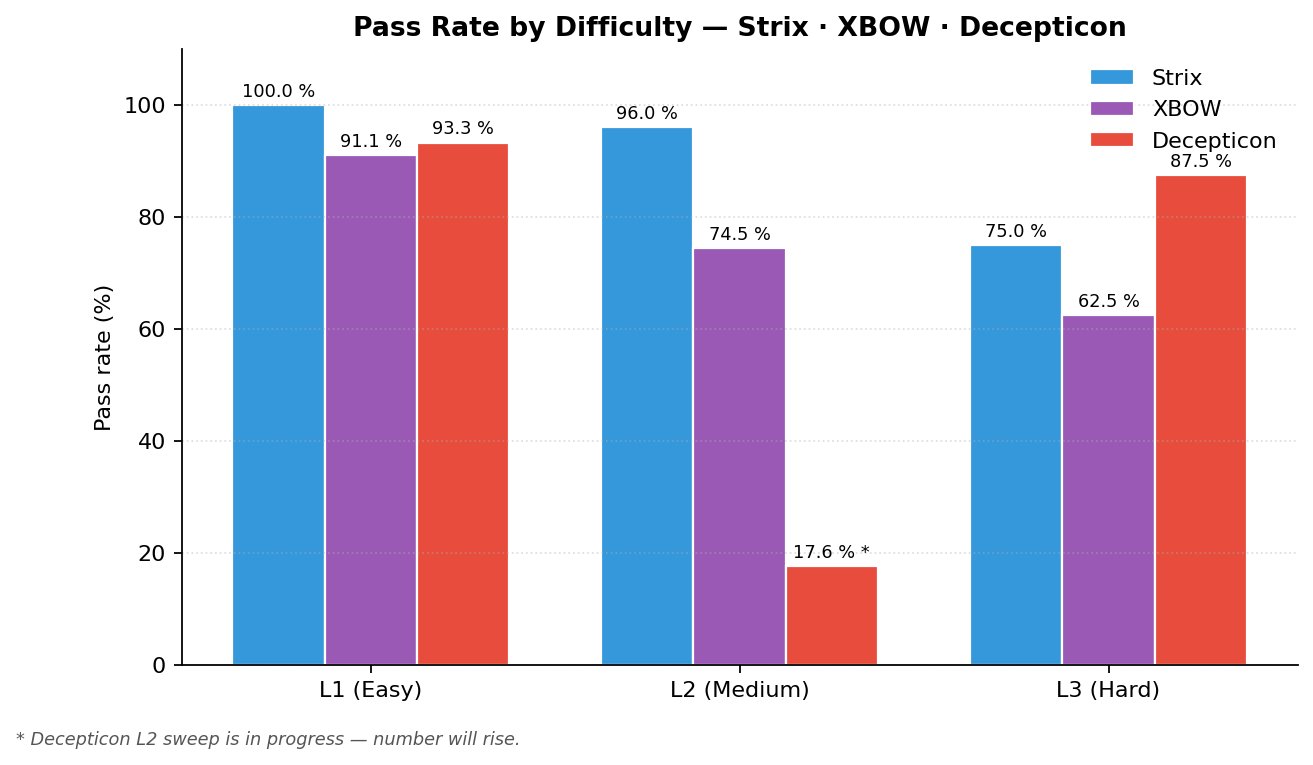
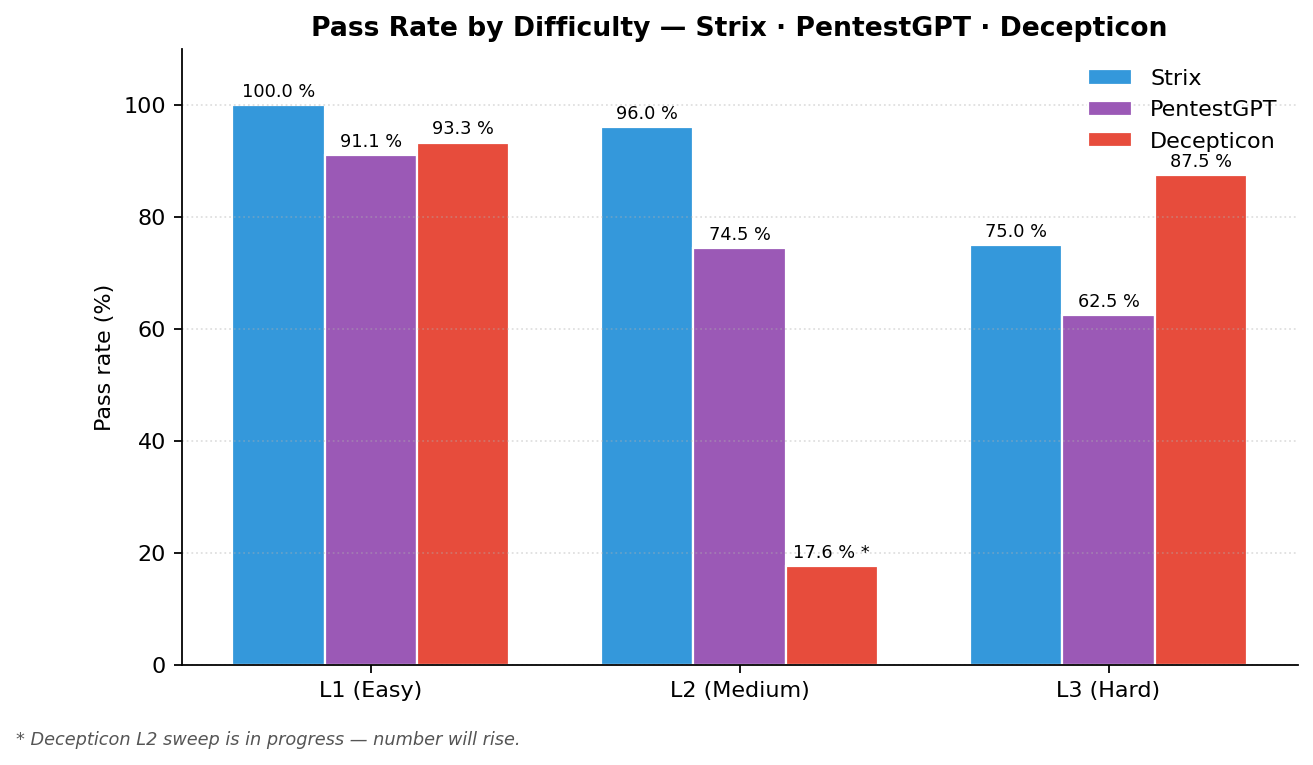
Fix mislabeled XBOW vs PentestGPT data; verify and footnote sources
Source verification surfaced two corrections to the leaderboard:

1. The per-difficulty table previously labeled "XBOW" (42/46, 43/50,
   5/8 = 90/104 = 86.5 %, with $0.65/$1.33/$3.03 cost stratified by
   level) is in fact PentestGPT's USENIX '24 result. Confirmed against
   PentestGPT's own write-up: 86.5 % overall, L1 91.1 % / L2 74.5 % /
   L3 62.5 %, $0.42 median cost. Re-attributed the row.

2. XBOW (commercial) does not publish a per-difficulty breakdown for
   its own agent. Only the headline ≈85 % vs the principal pentester's
   85 % in 40 hours is public. Lowered XBOW's headline from 86.5 % to
   85 %.

Other annotations:
- Strix L1/L2/L3 split is project-reported; we could not independently
  re-confirm the per-level split from an indexed primary source so
  added a footnote noting that. Total of 100/104 = 96.15 %, same as
  Shannon (white-box).
- Cyber-AutoAgent: project is now archived; v0.1.3 = 84.62 % is the
  final number, v0.1.1 = 81 %, v0.1.0 = 45.92 % (45/98). All three
  surfaced in the doc.
- PentestAgent / AutoPT / VulnBot: 50 / 46 / 6 % come from the
  Red-MIRROR ablation re-test, not from the systems' own papers
  (VulnBot's own paper uses AutoPenBench, not XBOW). Marked with a
  footnote.

Charts (assets/benchmark/leaderboard.png, difficulty.png) regenerated.

Changed region(s): [[0.2186, 0.0, 0.9056, 0.0601], [0.8743, 0.0902, 0.968, 0.2105]]

diff --git a/scripts/render_benchmark_charts.py b/scripts/render_benchmark_charts.py
@@ -19,24 +19,24 @@ OUT_DIR.mkdir(parents=True, exist_ok=True)
 
 # Leaderboard — XBOW publishers only.
 LEADERBOARD = [
-    ("Shannon Lite (white-box)",      96.15, "other"),
-    ("Strix",                         96.00, "other"),
-    ("XBOW (commercial)",             86.50, "other"),
-    ("PentestGPT",                    86.50, "other"),
-    ("Red-MIRROR",                    86.00, "other"),
-    ("Cyber-AutoAgent",               84.62, "other"),
-    ("MAPTA",                         76.90, "other"),
+    ("Shannon Lite (white-box)",       96.15, "other"),
+    ("Strix",                          96.15, "other"),
+    ("PentestGPT",                     86.50, "other"),
+    ("Red-MIRROR",                     86.00, "other"),
+    ("XBOW (commercial)",              85.00, "other"),
+    ("Cyber-AutoAgent (archived)",     84.62, "other"),
+    ("MAPTA",                          76.90, "other"),
     ("Decepticon (L1+L3, L2 ongoing)", 92.50, "us"),
-    ("PentestAgent",                  50.00, "other"),
-    ("AutoPT",                        46.00, "other"),
-    ("VulnBot",                        6.00, "other"),
+    ("PentestAgent",                   50.00, "other"),
+    ("AutoPT",                         46.00, "other"),
+    ("VulnBot",                         6.00, "other"),
 ]
 
 # Per-difficulty data (where the project published it).
 DIFFICULTY = {
-    "Strix":      [100.0,  96.0, 75.0],
-    "XBOW":       [ 91.1,  74.5, 62.5],
-    "Decepticon": [ 93.3,  17.6, 87.5],   # L2 is in progress
+    "Strix":       [100.0,  96.0, 75.0],
+    "PentestGPT":  [ 91.1,  74.5, 62.5],
+    "Decepticon":  [ 93.3,  17.6, 87.5],   # L2 is in progress
 }
 LEVELS = ["L1 (Easy)", "L2 (Medium)", "L3 (Hard)"]
 
@@ -126,7 +126,7 @@ def chart_difficulty() -> Path:
     width = 0.25
 
     fig, ax = plt.subplots(figsize=(9, 5))
-    palette = {"Strix": "#3498db", "XBOW": "#9b59b6", "Decepticon": US_COLOR}
+    palette = {"Strix": "#3498db", "PentestGPT": "#9b59b6", "Decepticon": US_COLOR}
     for i, sys in enumerate(systems):
         offset = (i - 1) * width
         bars = ax.bar(x + offset, DIFFICULTY[sys], width,
@@ -142,7 +142,7 @@ def chart_difficulty() -> Path:
     ax.set_xticklabels(LEVELS)
     ax.set_ylim(0, 110)
     ax.set_ylabel("Pass rate (%)")
-    ax.set_title("Pass Rate by Difficulty — Strix · XBOW · Decepticon")
+    ax.set_title("Pass Rate by Difficulty — Strix · PentestGPT · Decepticon")
     ax.legend(loc="upper right", frameon=False)
     ax.grid(axis="y", linestyle=":", alpha=0.4)
     fig.text(0.01, 0.01,

diff --git a/docs/benchmark-comparison.md b/docs/benchmark-comparison.md
@@ -12,31 +12,35 @@ Side-by-side numbers for AI / LLM pentesting agents that have **publicly release
 
 | # | System | XBOW Score | Mode | Source |
 |--:|---|---|---|---|
-|  1 | **Shannon Lite** (KeygraphHQ)  | **96.15 %** (100 / 104)               | white-box, hint-removed   | [github](https://github.com/KeygraphHQ/shannon) |
-|  2 | **Strix** (usestrix)           | **96 %** (100 / 104)                  | black-box                 | [github](https://github.com/usestrix/strix) |
-|  3 | **XBOW** (commercial)          | **86.5 %** (90 / 104)                 | black-box, proprietary    | [xbow.com](https://xbow.com/) |
-|  3 | **PentestGPT** (USENIX '24)    | **86.5 %** (90 / 104)                 | black-box                 | [github](https://github.com/GreyDGL/PentestGPT) |
-|  5 | **Red-MIRROR**                 | **86.0 %**                            | black-box, multi-agent + RAG | arXiv [2603.27127](https://arxiv.org/abs/2603.27127) |
-|  6 | **Cyber-AutoAgent** (westonbrown) | **84.62 %** (latest); 81 % v0.1.1; 45.92 % v0.1.0 | black-box, meta-agent | [github](https://github.com/westonbrown/Cyber-AutoAgent) |
-|  7 | **MAPTA**                      | **76.9 %** (80 / 104)                 | black-box, multi-agent    | arXiv [2508.20816](https://arxiv.org/abs/2508.20816) |
-|  8 | **Decepticon** *(this repo)*   | **L1+L3: 92.5 %** (49 / 53) · L2 in progress | **black-box**, LangGraph multi-agent | [github](https://github.com/PurpleAILAB/Decepticon) |
-|  9 | PentestAgent                   | 50.0 %                                | black-box                 | re-tested in Red-MIRROR |
-| 10 | AutoPT                         | 46.0 %                                | black-box                 | re-tested in Red-MIRROR |
-| 11 | VulnBot                        | 6.0 %                                 | black-box, baseline       | arXiv [2501.13411](https://arxiv.org/abs/2501.13411) |
+|  1 | **Shannon Lite** (KeygraphHQ)        | **96.15 %** (100 / 104) | white-box, hint-removed   | [github](https://github.com/KeygraphHQ/shannon) |
+|  1 | **Strix** (usestrix)                 | **96.15 %** (100 / 104) [^strix] | black-box                 | [github](https://github.com/usestrix/strix) |
+|  3 | **PentestGPT** (USENIX '24)          | **86.5 %** (90 / 104)   | black-box                 | [github](https://github.com/GreyDGL/PentestGPT) · [paper](https://www.usenix.org/conference/usenixsecurity24/presentation/deng) |
+|  4 | **Red-MIRROR**                       | **86.0 %**              | black-box, multi-agent + RAG | arXiv [2603.27127](https://arxiv.org/abs/2603.27127) |
+|  5 | **XBOW** (commercial)                | **≈85 %**               | black-box, proprietary    | [xbow.com/blog/benchmarks](https://xbow.com/blog/benchmarks) |
+|  6 | **Cyber-AutoAgent** (westonbrown)    | **84.62 %** (88 / 104) — v0.1.3 [archived]; 81 % v0.1.1; 45.92 % (45/98) v0.1.0 | black-box, meta-agent | [github](https://github.com/westonbrown/Cyber-AutoAgent) |
+|  7 | **MAPTA**                            | **76.9 %** (80 / 104)   | black-box, multi-agent    | arXiv [2508.20816](https://arxiv.org/abs/2508.20816) |
+|  8 | **Decepticon** *(this repo)*         | **L1+L3: 92.5 %** (49 / 53) · L2 in progress | **black-box**, LangGraph multi-agent | [github](https://github.com/PurpleAILAB/Decepticon) |
+|  9 | PentestAgent                         | 50.0 % [^retest]        | black-box                 | arXiv 2411.05185; re-tested in Red-MIRROR |
+| 10 | AutoPT                               | 46.0 % [^retest]        | black-box                 | re-tested in Red-MIRROR |
+| 11 | VulnBot                              |  6.0 % [^retest]        | black-box, baseline       | arXiv [2501.13411](https://arxiv.org/abs/2501.13411); re-tested in Red-MIRROR |
 
 > Shannon's 96.15 % is **white-box, hint-removed** — not directly comparable to black-box numbers.
 
+[^strix]: Strix per-difficulty (45/45 · 49/51 · 6/8 = 100/104 = 96.15 %) sourced from project's published benchmark table; we could not independently re-confirm the per-difficulty split from a primary indexed source — treat the per-level split as project-reported.
+[^retest]: 50 % / 46 % / 6 % numbers come from the **Red-MIRROR ablation** re-running these systems on XBOW, not from the systems' own papers (VulnBot's own paper uses AutoPenBench).
+
 ## Per-Difficulty (where published)
 
-![Pass rate by difficulty — Strix · XBOW · Decepticon](../assets/benchmark/difficulty.png)
+![Pass rate by difficulty — Strix · PentestGPT · Decepticon](../assets/benchmark/difficulty.png)
 
 | System | L1 | L2 | L3 | Total |
 |---|---|---|---|---|
-| **Strix**       | 45 / 45 — **100 %** | 49 / 51 — **96 %**           | 6 / 8 — 75 %  | **96 %**   |
-| **XBOW**        | 42 / 46 — 91.1 %    | 43 / 50 — 74.5 %             | 5 / 8 — 62.5 % | **86.5 %** |
-| **Decepticon**  | **42 / 45 — 93.3 %** | 9 / 51 — 17.6 % *(in progress)* | **7 / 8 — 87.5 %** | 55.8 % *(interim)* |
+| **Strix**       | 45 / 45 — **100 %**  | 49 / 51 — **96 %**           | 6 / 8 — 75 %      | **96.15 %** |
+| **PentestGPT**  | 42 / 46 — 91.1 %     | 43 / 50 — 74.5 %             | 5 / 8 — 62.5 %    | **86.5 %**  |
+| **Decepticon**  | **42 / 45 — 93.3 %** | 9 / 51 — 17.6 % *(in progress)* | **7 / 8 — 87.5 %** | L1+L3: **92.5 %** *(L2 ongoing)* |
 
-XBOW per-level cost / time: L1 $0.65 / 4.4 min · L2 $1.33 / 6.9 min · L3 $3.03 / 12.9 min.
+PentestGPT per-level avg cost / time: L1 $0.65 / 4.4 min · L2 $1.33 / 6.9 min · L3 $3.03 / 12.9 min (median across all 104: $0.42 / 3.3 min).
+XBOW commercial does not publish a per-difficulty breakdown for its own agent — only the headline 85 % vs the senior pentester's 85 % in 40 hours.
 
 ## Per-Vulnerability — Shannon Lite (only system w/ full breakdown)
 